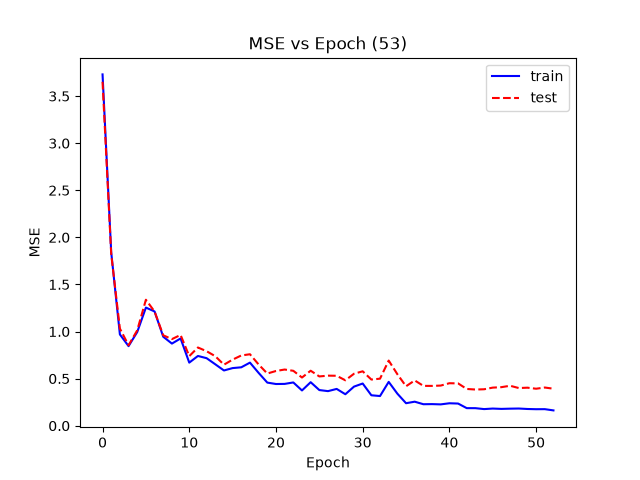
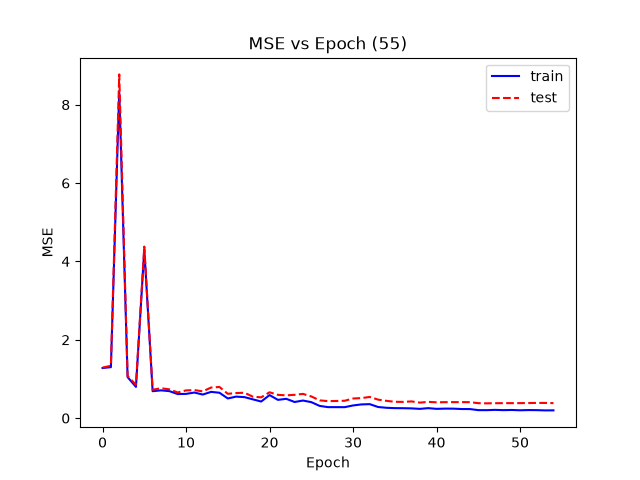
Fixed bugs in plots

diff --git a/plots-visuals/plot-mse.py b/plots-visuals/plot-mse.py
@@ -20,4 +20,4 @@ plt.title(f'MSE vs Epoch ({len(train_MSE)})')
 plt.xlabel('Epoch')
 plt.ylabel('MSE')
 
-plt.savefig('./Plots-Visuals/Visuals/MSE.png')
+plt.savefig('./plots-visuals/new-plots/MSE.png')